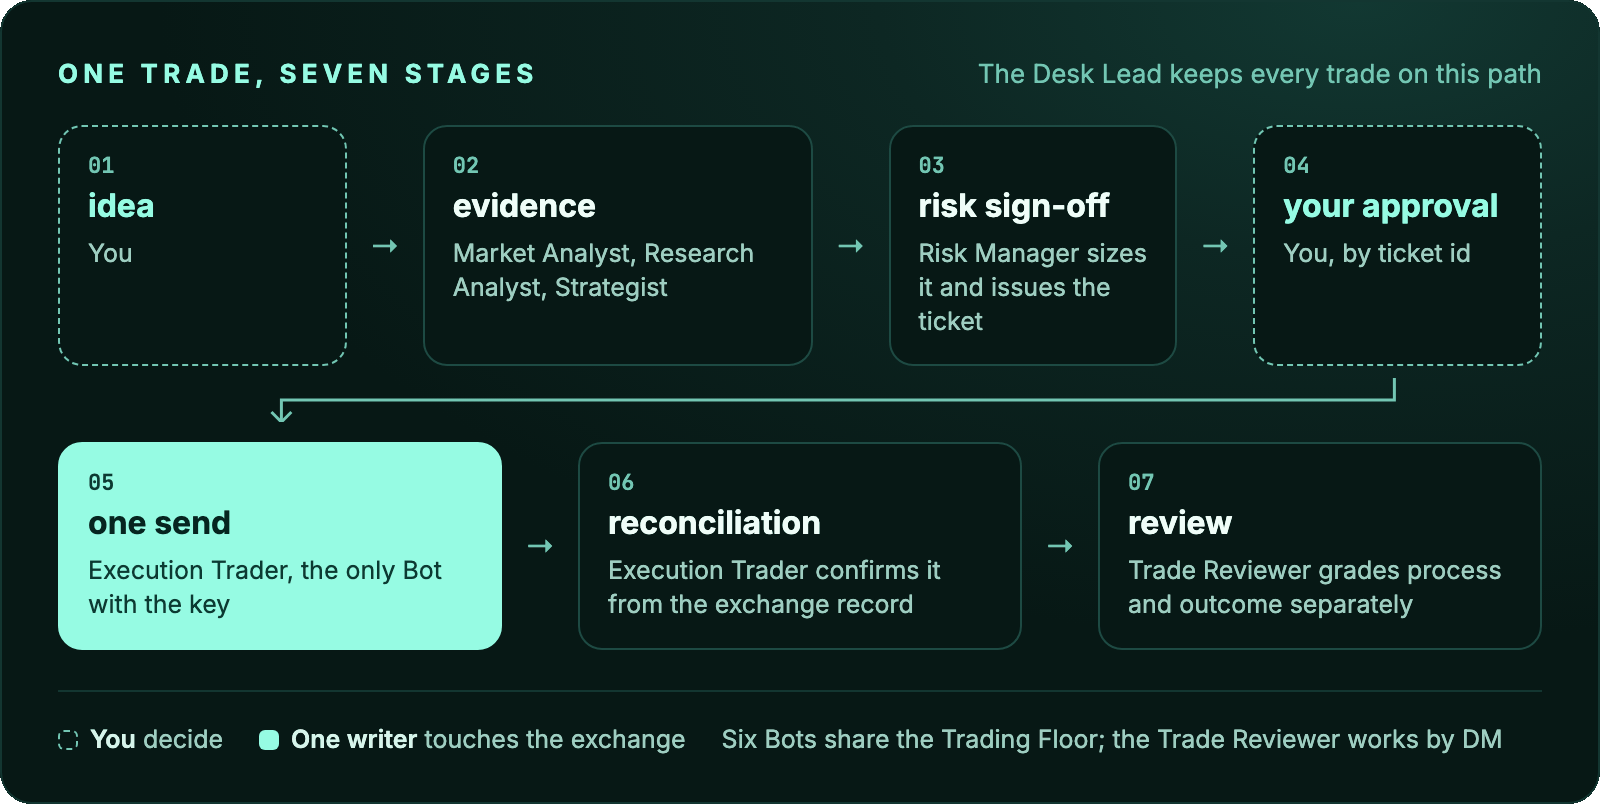
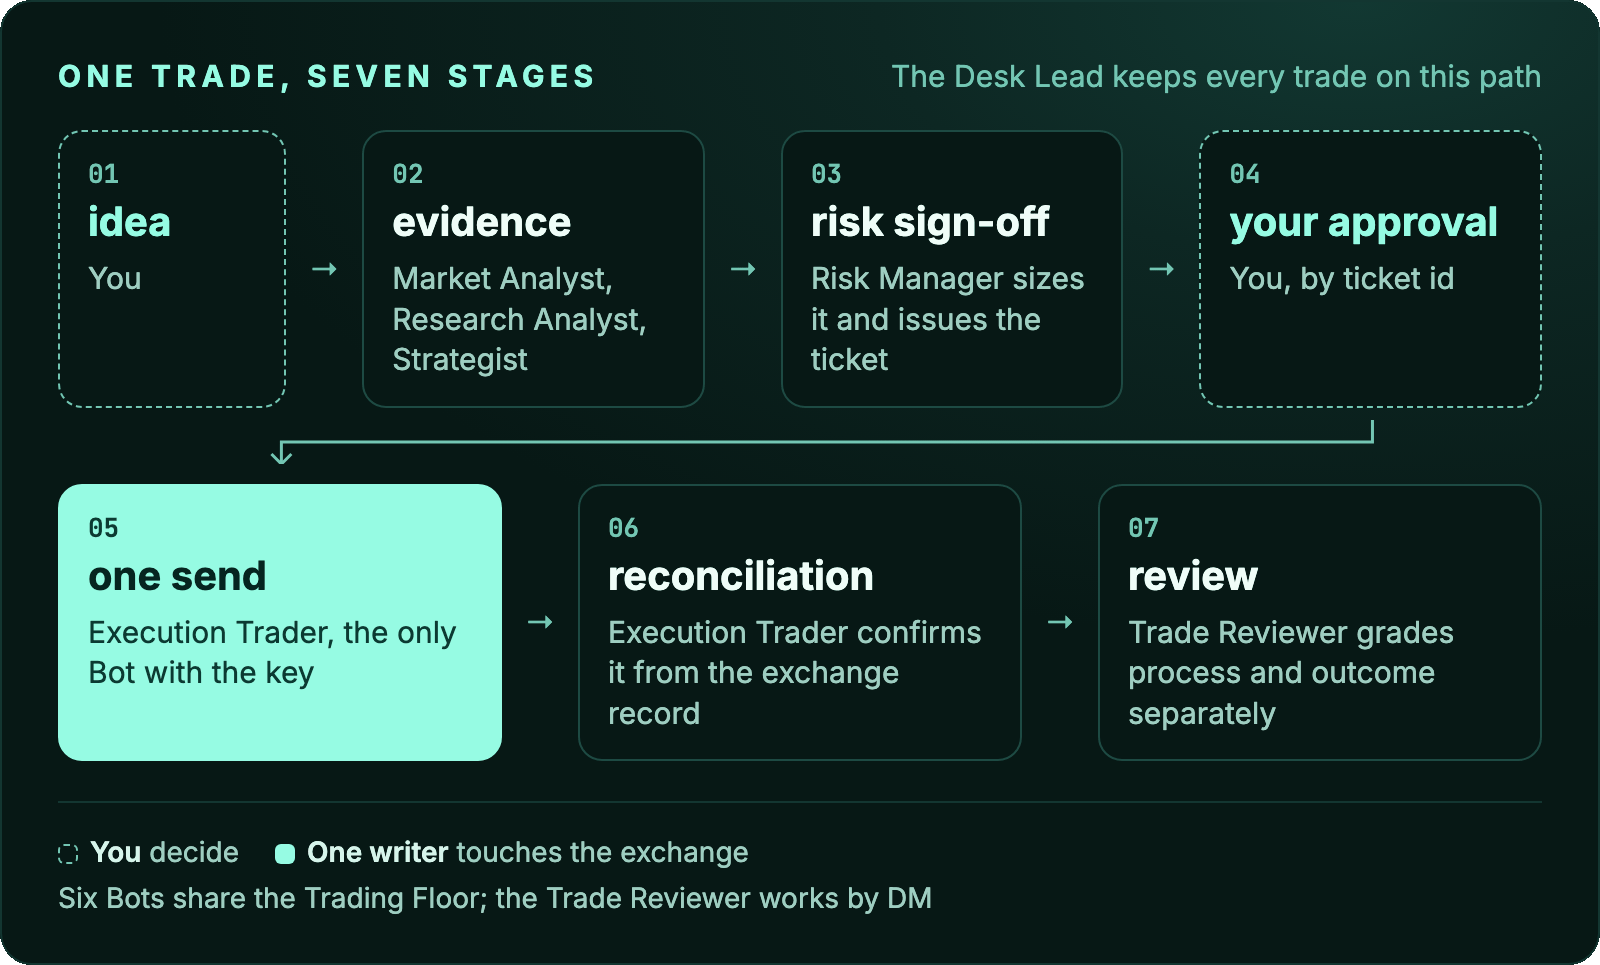
docs: simplify the hero and enlarge the trade path labels

diff --git a/assets/src/desk-flow.html b/assets/src/desk-flow.html
@@ -18,20 +18,20 @@
     font-family: Inter, sans-serif; color: var(--text);
   }
   .head { display: flex; justify-content: space-between; align-items: baseline; }
-  .eyebrow { font-weight: 700; font-size: 13px; letter-spacing: .2em; color: var(--mint); text-transform: uppercase; }
-  .note { font-size: 13px; color: var(--mint-dim); }
+  .eyebrow { font-weight: 700; font-size: 15px; letter-spacing: .18em; color: var(--mint); text-transform: uppercase; }
+  .note { font-size: 15px; color: var(--mint-dim); }
   .row { display: grid; gap: 10px; margin-top: 18px; align-items: stretch; }
-  .row.a { grid-template-columns: 1fr 18px 1.35fr 18px 1fr 18px 1fr; }
+  .row.a { grid-template-columns: .8fr 18px 1.2fr 18px 1.2fr 18px 1.2fr; }
   .row.b { grid-template-columns: 1fr 18px 1fr 18px 1fr; margin-top: 10px; }
   .turn { height: 22px; margin: 6px 0 0; position: relative; }
   .turn svg { position: absolute; inset: 0; width: 100%; height: 100%; }
   .stage {
     background: var(--bg); border: 1px solid var(--line-hi); border-radius: 12px;
-    padding: 12px 14px 13px; min-height: 86px;
+    padding: 12px 14px 13px; min-height: 104px;
   }
-  .n { font-family: "JetBrains Mono", monospace; font-size: 11px; font-weight: 600; color: var(--mint-dim); }
-  .name { font-weight: 700; font-size: 16px; margin-top: 3px; color: #effdf8; }
-  .who { font-size: 12.5px; color: var(--muted); margin-top: 6px; line-height: 1.35; }
+  .n { font-family: "JetBrains Mono", monospace; font-size: 13px; font-weight: 600; color: var(--mint-dim); }
+  .name { white-space: nowrap; font-weight: 700; font-size: 20px; margin-top: 3px; color: #effdf8; }
+  .who { font-size: 15px; color: var(--muted); margin-top: 6px; line-height: 1.35; }
   .stage.you { border-style: dashed; border-color: var(--mint-dim); }
   .stage.you .name { color: var(--mint); }
   .stage.send { background: var(--mint); border-color: var(--mint); }
@@ -40,7 +40,7 @@
   .arr { display: grid; place-items: center; color: var(--mint-dim); font-size: 15px; }
   .foot {
     display: flex; gap: 18px; margin-top: 20px; padding-top: 16px; border-top: 1px solid var(--line);
-    font-size: 12.5px; color: var(--muted);
+    font-size: 14px; color: var(--muted); flex-wrap: wrap; row-gap: 6px;
   }
   .foot b { color: var(--text); font-weight: 600; }
   .key { display: inline-block; width: 10px; height: 10px; border-radius: 3px; margin-right: 6px; vertical-align: -1px; }
@@ -60,7 +60,7 @@
       <div class="arr">&rarr;</div>
       <div class="stage"><div class="n">02</div><div class="name">evidence</div><div class="who">Market Analyst, Research Analyst, Strategist</div></div>
       <div class="arr">&rarr;</div>
-      <div class="stage"><div class="n">03</div><div class="name">risk sign-off</div><div class="who">Risk Manager sizes it and issues the ticket</div></div>
+      <div class="stage"><div class="n">03</div><div class="name">risk sign&#8209;off</div><div class="who">Risk Manager sizes it and issues the ticket</div></div>
       <div class="arr">&rarr;</div>
       <div class="stage you"><div class="n">04</div><div class="name">your approval</div><div class="who">You, by ticket id</div></div>
     </div>
@@ -68,7 +68,7 @@
     <div class="turn">
       <svg viewBox="0 0 744 22" preserveAspectRatio="none" aria-hidden="true">
         <path d="M 107 17 L 112 22 L 117 17" fill="none" stroke="#73c6b3" stroke-width="1.5"/>
-        <path d="M 670 0 V 11 H 112 V 22" fill="none" stroke="#73c6b3" stroke-width="1.5" vector-effect="non-scaling-stroke"/>
+        <path d="M 659 0 V 11 H 112 V 22" fill="none" stroke="#73c6b3" stroke-width="1.5" vector-effect="non-scaling-stroke"/>
       </svg>
     </div>
 

diff --git a/assets/src/hero.html b/assets/src/hero.html
@@ -35,27 +35,12 @@
   .mascot img { width: 100%; height: 100%; display: block; }
   .copy { position: relative; }
   .eyebrow {
-    font-weight: 700; font-size: 11px; letter-spacing: .2em; color: var(--mint-dim);
+    font-weight: 700; font-size: 14px; letter-spacing: .16em; color: var(--mint-dim);
     text-transform: uppercase;
   }
-  h1 { font-weight: 800; font-size: 56px; letter-spacing: -.03em; line-height: 1; margin-top: 10px; color: #effdf8; }
-  .tag { font-size: 19px; font-weight: 500; color: var(--muted); margin-top: 10px; }
+  h1 { font-weight: 800; font-size: 76px; letter-spacing: -.03em; line-height: 1; margin-top: 12px; color: #effdf8; }
+  .tag { white-space: nowrap; font-size: 24px; font-weight: 500; color: var(--muted); margin-top: 14px; }
   .tag b { color: var(--mint); font-weight: 600; }
-  .roles { display: flex; align-items: center; gap: 6px; margin-top: 26px; }
-  .chip {
-    font-family: "JetBrains Mono", monospace; font-weight: 600; font-size: 12px;
-    width: 38px; height: 30px; border-radius: 8px; display: grid; place-items: center;
-    background: var(--bg); border: 1px solid var(--line-hi); color: var(--muted);
-  }
-  .chip.writer { background: var(--mint); border-color: var(--mint); color: #062520; }
-  .arrow { color: var(--mint-dim); font-size: 13px; margin: 0 4px 0 6px; }
-  .you {
-    font-family: "JetBrains Mono", monospace; font-weight: 600; font-size: 12px;
-    height: 30px; padding: 0 10px; border-radius: 8px; display: grid; place-items: center;
-    border: 1px dashed var(--mint-dim); color: var(--mint);
-  }
-  .legend { font-size: 12px; color: var(--mint-dim); margin-top: 10px; }
-  .legend span { color: var(--mint); }
 </style>
 </head>
 <body>
@@ -66,14 +51,6 @@
       <div class="eyebrow">Hyperliquid trading desk for Grok Bot</div>
       <h1>HyperGrok</h1>
       <p class="tag">Seven agents, <b>one writer</b>, your approval.</p>
-      <div class="roles">
-        <div class="chip">DL</div><div class="chip">MA</div><div class="chip">RA</div>
-        <div class="chip">ST</div><div class="chip">RM</div><div class="chip">TR</div>
-        <div class="you">you approve</div>
-        <span class="arrow">&rarr;</span>
-        <div class="chip writer">ET</div>
-      </div>
-      <p class="legend">Six roles read. <span>The Execution Trader</span> sends the ticket you approved, once.</p>
     </div>
   </div>
 </body>

diff --git a/README.md b/README.md
@@ -1,5 +1,5 @@
 <p align="center">
-  <img src="assets/hero.png" width="800" alt="HyperGrok: a Hyperliquid trading desk for Grok Bot. Seven agents, one writer, your approval. Six roles read; the Execution Trader sends the ticket you approved, once.">
+  <img src="assets/hero.png" width="800" alt="HyperGrok, a Hyperliquid trading desk for Grok Bot: seven agents, one writer, your approval.">
 </p>
 
 <p align="center">
